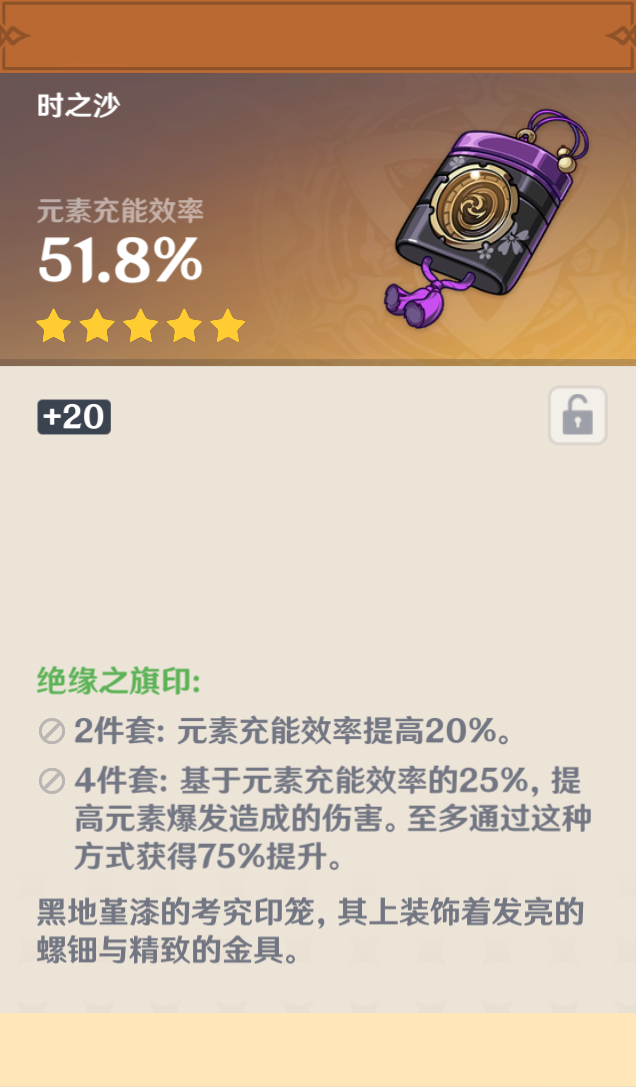
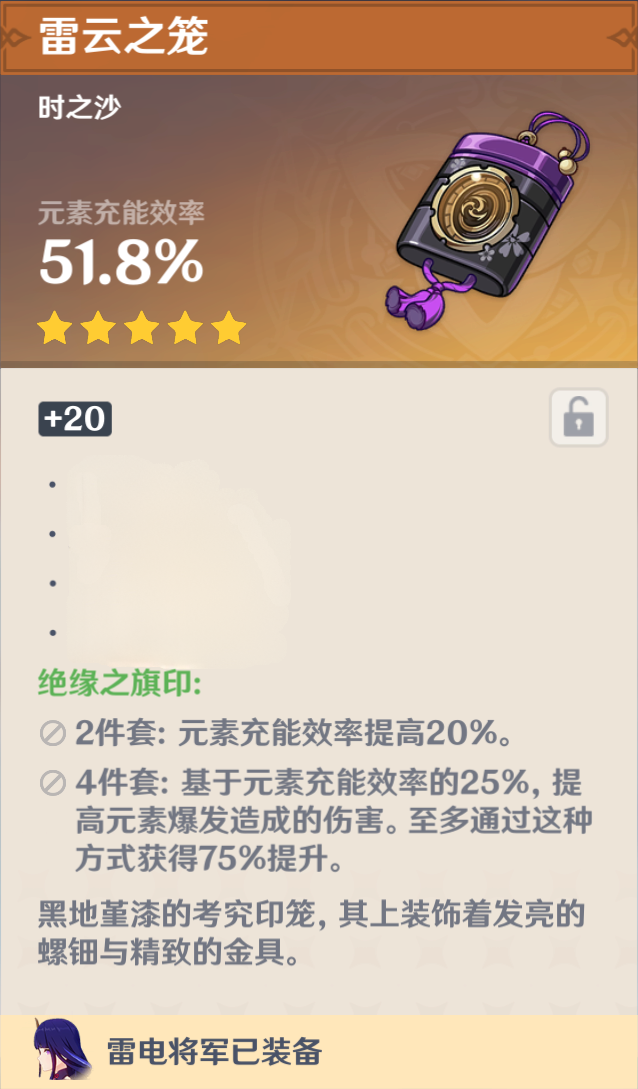
minor update

diff --git a/routes/blender.py b/routes/blender.py
@@ -9,13 +9,45 @@ from io import BytesIO
 # print("Last name: " + sys.argv[2])
 
 
-background = Image.open('./public/images/erased_template.png')
-font = ImageFont.truetype('./public/fonts/zh-cn.ttf', 40)
+background = Image.open('./public/images/template_blank.png')
+vice_font = ImageFont.truetype('./public/fonts/zh-cn.ttf', 30)
+main_prop_font = ImageFont.truetype('./public/fonts/zh-cn.ttf', 28)
+main_prop_rate_font = ImageFont.truetype('./public/fonts/zh-cn.ttf', 55)
+title_font = ImageFont.truetype('./public/fonts/zh-cn.ttf', 43)
+
 
 test_text = '中文字体测试，。 ENGLISH english 1234——+-=，。/；‘<>?:"/..'
 
+# position = '时之沙'
+# main_prop = '元素充能效率'
+# main_prop_rate = '51.8%'
+#
+# vice_one = '暴击率+1433.1%'
+# vice_two = '暴击伤害+22125.8%'
+# vice_three = '攻击力+53332.4%'
+# vice_four = '生命值+4113.5%'
+
+title = '大氵逼的帖子'
+position = '时之沙'
+main_prop = '水贴效率'
+main_prop_rate = '114.514%'
+
+vice_one = '回复量+11.4%'
+vice_two = '经验+5'
+vice_three = '色图+14'
+vice_four = '广告麦片数-5'
+
 image = ImageDraw.Draw(background)
-image.text((100, 100), test_text, (255, 255, 255), font=font)
+image.text((39, 13), title, (255, 255, 255), font=title_font)
+image.text((37, 93), position, (255, 255, 255), font=main_prop_font)
+image.text((39, 197), main_prop, (194, 175, 168), font=main_prop_font)
+image.text((39, 230), main_prop_rate, (255, 255, 255), font=main_prop_rate_font)
+
+
+image.text((68, 467), vice_one, (73, 82, 103), font=vice_font)
+image.text((68, 516), vice_two, (73, 82, 103), font=vice_font)
+image.text((68, 565), vice_three, (73, 82, 103), font=vice_font)
+image.text((68, 615), vice_four, (73, 82, 103), font=vice_font)
 # background.save('../output/test_image.png')
 
 buffer = BytesIO()
